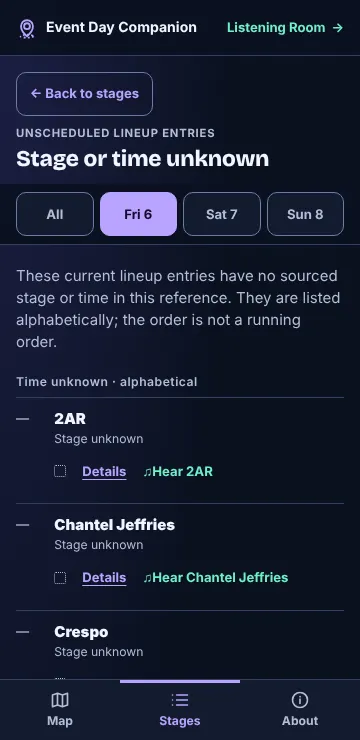
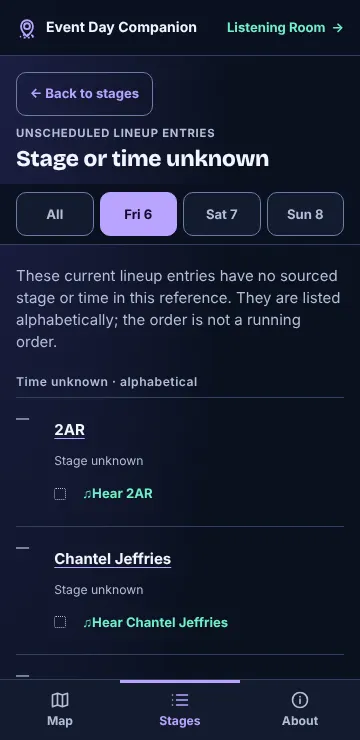
Companion: opaque sticky bars so scrolled content cannot show through
Claude-Session: https://claude.ai/code/session_01J577LaeP7DM2HPrA6vSfB1

Changed region(s): [[0.1528, 0.5595, 0.7944, 0.9014]]

diff --git a/docs/companion-session2/capture.js b/docs/companion-session2/capture.js
@@ -21,7 +21,9 @@ const SHOTS = [
   ['07-b2b-detail-360', 360, 740, '#/performance/edco26%3A2026-11-07%3Aacraze-b2b-cid?day=2026-11-07&stage=kinetic-field'],
   ['08-sources-360', 360, 740, '#/sources'], ['09-fold-cover-280', 280, 653, '#/explore?day=2026-11-07&stage=neon-garden'],
   ['10-tablet-768', 768, 1024, '#/explore?day=2026-11-07&stage=kinetic-field'], ['11-desktop-1280', 1280, 800, '#/explore?day=2026-11-07&stage=kinetic-field'],
-  ['12-landscape-844', 844, 390, '#/explore?day=2026-11-06&stage=kinetic-field'], ['13-load-failure-360', 360, 740, '#/explore', 'fail']
+  ['12-landscape-844', 844, 390, '#/explore?day=2026-11-06&stage=kinetic-field'], ['13-load-failure-360', 360, 740, '#/explore', 'fail'],
+  ['14-sticky-scrolled-360', 360, 740, '#/explore?day=2026-11-07&stage=circuit-grounds', 'scroll'],
+  ['15-sticky-wrapped-header-200pct-360', 360, 740, '#/explore?day=2026-11-07&stage=circuit-grounds', 'zoom']
 ];
 (async () => {
   await new Promise(r => server.listen(0, '127.0.0.1', r));
@@ -32,6 +34,8 @@ const SHOTS = [
     if (mode === 'fail') await page.route('**/performances.json', r => r.fulfill({ status: 503, body: '{}' }));
     await page.goto(base + '/companion/' + hash);
     await page.waitForSelector(mode === 'fail' ? '.error' : 'main[aria-busy="false"] h1');
+    if (mode === 'zoom') await page.addStyleTag({ content: ':root{font-size:30px!important}' });
+    if (mode === 'scroll' || mode === 'zoom') { await page.evaluate(() => window.scrollTo(0, 900)); await page.waitForTimeout(150); }
     await page.screenshot({ path: path.join(out, name + '.png') });
     await ctx.close();
   }

diff --git a/companion/styles.css b/companion/styles.css
@@ -5,7 +5,7 @@
 @font-face{font-family:"Bricolage Grotesque";font-style:normal;font-weight:800;font-display:swap;src:url(../listening-room/fonts/bricolage-grotesque-latin-800.woff2) format("woff2")}
 :root{color-scheme:dark;
   /* ground */
-  --bg:#0a1120;--bg-glow:#1c1f44;--map-dot:#ffffff0d;--bar:#0a1120f5;
+  --bg:#0a1120;--bg-glow:#1c1f44;--map-dot:#ffffff0d;--bar:#0a1120;
   --panel:#131b2e;--sheet:#182238;--line:#33405f;--line-strong:#6b7ca6;
   /* text */
   --text:#f2f5ff;--muted:#b4bdd6;
